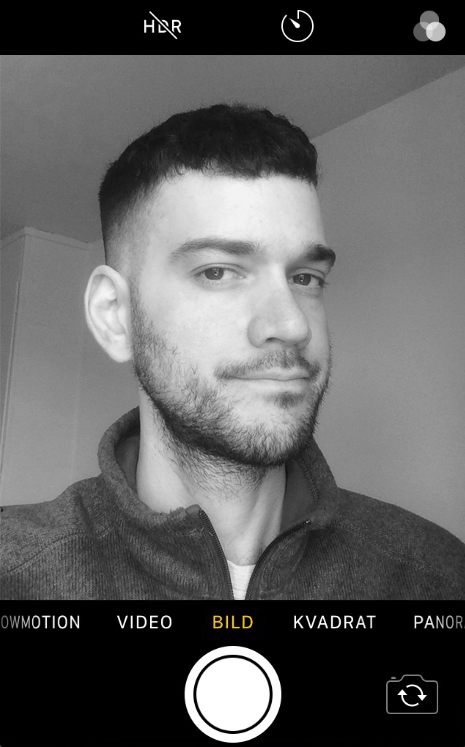
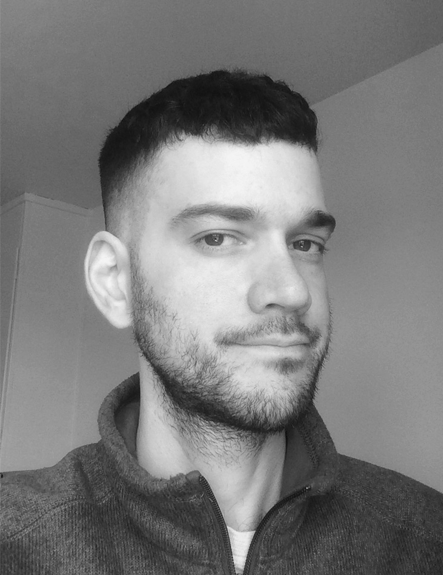
new portrait, adjusted css

diff --git a/src/About/index.js b/src/About/index.js
@@ -29,11 +29,8 @@ const About = ({ contact, languages, links, frameLib, tools, software }) => (
           <img
             className="portrait"
             src={item.img}
-            alt="Portrait photography by Anna Drvnik."
+            alt="Portrait"
           ></img>
-          <figcaption>
-            <h5 className="caption">{item.credits}</h5>
-          </figcaption>
         </figure>
         <section className="links">
           <ul>

diff --git a/src/App.css b/src/App.css
@@ -88,7 +88,6 @@ h2 {
   font-size: 2.5rem;
   letter-spacing: -0.02rem;
   font-weight: 400;
-  cursor: pointer;
   color: black;
   text-decoration: none;
   background: none;
@@ -195,7 +194,7 @@ figure {
 
 figure.portrait {
   width: 20%;
-  margin: 6rem 2rem 2rem 2rem;
+  margin: 6rem 2rem 5rem 2rem;
 }
 
 figcaption {
